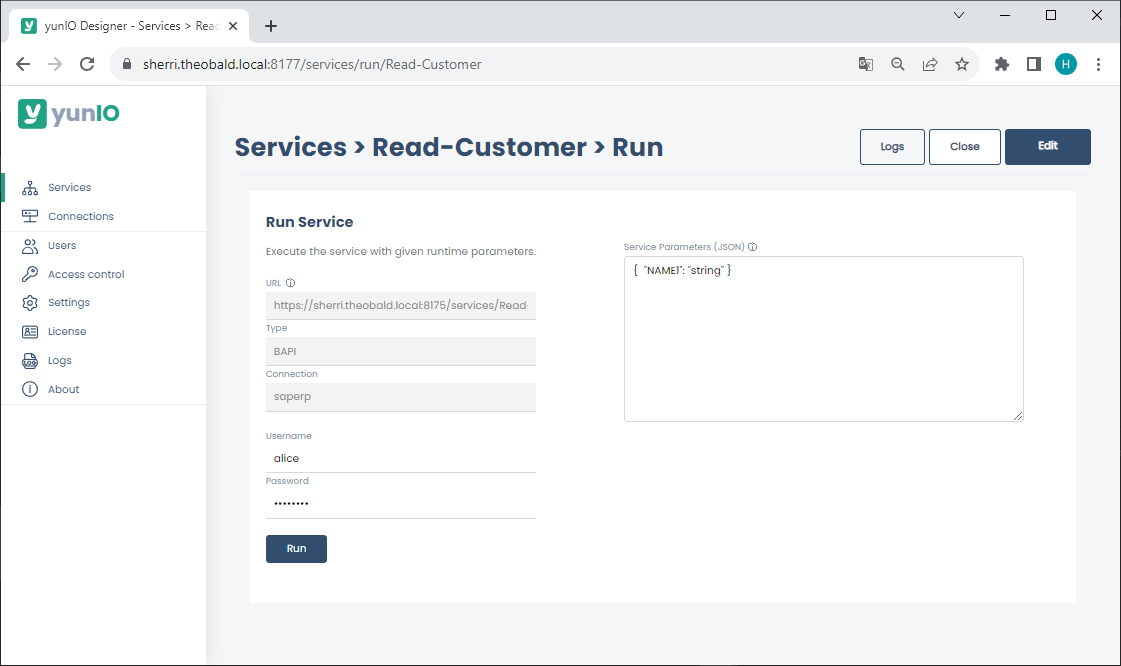
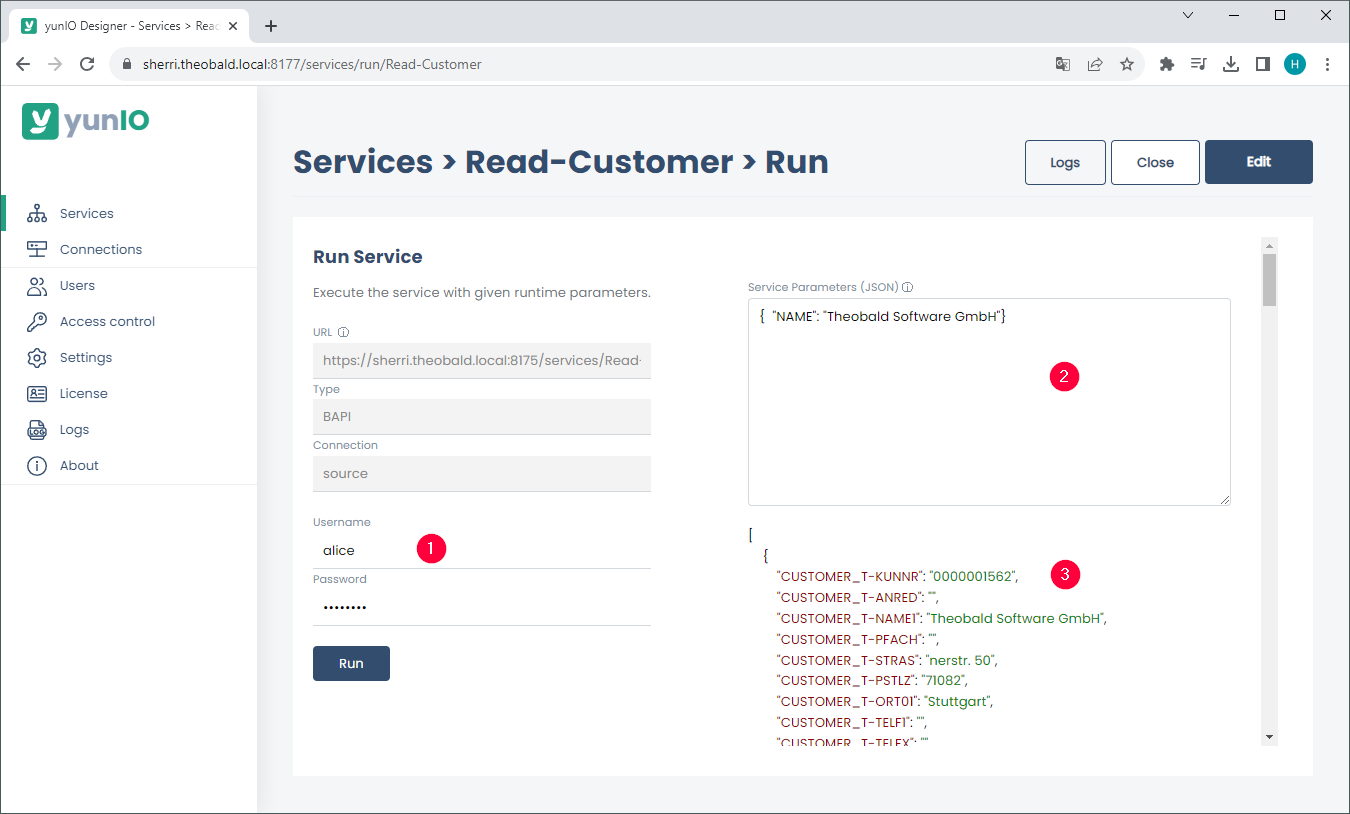
draft

diff --git a/content/_en/yunio/run-services.md b/content/_en/yunio/run-services.md
@@ -10,48 +10,47 @@ weight: 11
 lang: en_EN
 ---
 
-
-- To test a service after creation, trigger the URL of the service endpoint under **Service** (1). The service is then executed in your web browser. <br>
-- To integrate a yunIO web service into a tool that supports Swagger/OpenAPI, copy the code or download the service definition (2).
-
+The following section shows how to test, integrate and pass parameters to services created in yunIO.
 
 ### Testing a Service
 
-Before integrating a yunIO service, it is recommended to test the service in a browser or a REST client, e.g., Swagger Inspector or Postman.
+Before integrating a yunIO service, it is recommended to test the service directly in yunIO or in a REST client, e.g., Swagger Inspector or Postman.
 
-- Click ![copy](/img/content/yunio/icons/copyURL.png) to copy the endpoint of the service to your clipboard.<br>
-The service endpoint is the URL that third-party-tools use to run the service.
-- Click ![copy](/img/content/yunio/icons/run.png) to open the *Run Service* menu and testrun the service in your browser.<br>
-The *Run Service* menu supports passing parameters ... direct access to the log files.
-
-![yunIO-Services](/img/content/yunio/yunio-run-services.png){:class="img-responsive" }
+- Click ![copy](/img/content/yunio/icons/copyURL.png) to copy the URL of the service endpoint to your clipboard. The URL can be used to trigger a service run.
+- Click ![copy](/img/content/yunio/icons/run.png) to open the *Run Service* menu, where you can define parameters and run the service directly in yunIO.<br>
+![yunIO-Services](/img/content/yunio/yunio-run-services1.png){:class="img-responsive" }
 
 #### Run Service Menu
 
 Follow the steps below to testrun a service:
-1. If [Global Access Control](./access-control#global-access-control) and/or [Service Access Control](./access-control#service-access-control) is enabled, enter valid credentials to run the service (1).
+1. If [Global Access Control](./access-control#global-access-control) and/or [Service Access Control](./access-control#service-access-control) is enabled, enter valid credentials (1).
 2. If the service requires input parameters, enter values for the parameters listed under *Service parameters* (2).
-The depicted example uses an input parameter ...
-3. Click **[Run]** (3). The response body of the service is displayed at the bottom of the menu (4).
+The depicted example uses an input parameter *NAME1*.<br>
+![Run-Service](/img/content/yunio/run-service.png){:class="img-responsive" }
+3. Click **[Run]**. The response body of the service is displayed at the bottom of the menu (3).
 4. If the response body returns an error message, click **[Logs]** to open the [logs](./logs) of the service run.
 5. Click **[Close]** to close the *Run Service* menu.
+
+{: .box-tip}
+**Tip:** Click **[Edit]** to edit the service or add parameters.
 
 ### Integrating a Service
 
 Web services created with yunIO can be integrated into all cloud applications that support REST API/Swagger (OpenAPI), e.g. Power Automate, Nintex, etc.
 
-- Click ![copy](/img/content/yunio/icons/copyURL.png) to copy the URL of the service definition to your clipboard.<br>
+- Click ![copy](/img/content/yunio/icons/copyURL.png) to copy the URL of the service definition to your clipboard.
 The service definition URL can be used by third-party-tools to load the meta data of the service.
-- Click ![download](/img/content/yunio/icons/download.png) to download the service definition.<br>
+- Click ![download](/img/content/yunio/icons/download.png) to download the service definition.
 The service definition is saved as a JSON file that defines how to run the service. 
-The JSON file can be imported into third-party tools.
+The JSON file can be imported into third-party tools.<br>
+![yunIO-Services](/img/content/yunio/yunio-run-services-https.png){:class="img-responsive" }
 
-![yunIO-Services](/img/content/yunio/yunio-run-services.png){:class="img-responsive" }
-
-Examples for integrating yunIO services:
+Examples for integrating yunIO services in third-party-tools:
 - [Integrating a yunIO Service with Power Automate](https://kb.theobald-software.com/yunio/integrating-a-yunio-service-with-power-automate)
 - [Integrating a yunIO Service with Nintex](https://kb.theobald-software.com/yunio/integrating-a-yunio-service-with-nintex)
 - [Integrating a yunIO Service with Alteryx](https://kb.theobald-software.com/yunio/integrating-a-yunio-service-with-alteryx)
+
+For more integration scenarios and examples, see [Integration Scenarios](./integration). 
 
 <!---
 - [Running a yunIO Service in Postman](https://kb.theobald-software.com/yunio/running-a-yunio-service-in-postman)
@@ -60,17 +59,19 @@ Examples for integrating yunIO services:
 
 ### Passing Parameters
 
-, see [POST vs GET](#post-vs-get).
-All parameters are listed in the request body of a service.
+How parameters are passed to a yunIO service, depends on the http method that is used to call the service.<br>
+yunIO supports the http methods `POST` and `GET`, see [POST vs GET](#post-vs-get).
 
-Passing an input parameter *NAME1* using the http `POST` method:<br>
+#### POST Method
+Parameters are listed in the request body of a service. <br>
+Edit the request body to assign values to the parameters. The depicted example uses an input parameter *NAME1*:<br>
 ![yunIO-HTTP-POST](/img/content/yunio/http-post.png){:class="img-responsive" }
 
-Passing an input parameter *NAME1* using the http `GET` method:<br>
+#### GET Method
+Parameters are available as query parameters in the service URL. <br>
+Use query parameters to assign values or add the values directly in the service URL. The depicted example uses an input parameter *NAME1*:<br>
 ![yunIO-HTTP-GET](/img/content/yunio/http-get.png){:class="img-responsive" }
 
-{: .box-note}
-**Note:** When using the GET method for a yunIO service, parameters can be passed in the service URL.
 
 ### POST vs GET
 yunIO services support the http methods `POST` and `GET`.
@@ -95,3 +96,4 @@ When using the OpenAPI/Swagger definition, `POST` and `GET` are both available. 
 - [SAP Table or Views](./table-and-views)
 - [Function Module / BAPI](./bapis-and-function-modules)
 - [Transactions](./transactions)
+- [Report](./report)

diff --git a/content/_de/yunio/sap-verbindungen-anlegen.md b/content/_de/yunio/sap-verbindungen-anlegen.md
@@ -11,14 +11,16 @@ lang: de_DE
 old_url: /Xtract-Universal-DE/default.aspx?pageid=sap-verbindungen-anlegen
 ---
 
-### Eine SAP-Verbindung herstellen
 
 {: .box-warning}
 **Warnung!** **Fehlende Berechtigungen**
 Um eine Verbindung zu SAP herzustellen, muss der Zugriff auf allgemeine Berechtigungsobjekte verfügbar sein.
 Stellen Sie sicher, dass der Zugriff auf die erforderlichen Berechtigungsobjekte möglich ist. Weitere Informationen finden Sie im Knowledge-Base-Artikel zu [SAP Zugriffsrechten](https://kb.theobald-software.com/sap/authority-objects-sap-user-rights).
 
-Die Einstellungen für SAP-Verbindungen befinden sich im yunIO Designer unter dem Abschnitt *Connections*.<br>
+
+### Eine SAP-Verbindung herstellen
+
+SAP-Verbindungen befinden sich im yunIO Designer unter dem Abschnitt *Connections*.<br>
 - Um eine neue Verbindung anzulegen, klicken Sie auf **[Add Connection]** (1). <br>
 - Um eine bereits vorhandene Verbindung zu bearbeiten, klicken Sie auf *Edit* (![Edit](/img/content/yunio/edit.png) Icon) (2).
 

diff --git a/content/_en/yunio/sap-connection.md b/content/_en/yunio/sap-connection.md
@@ -12,14 +12,14 @@ old_url: /Xtract-Universal-EN/default.aspx?pageid=sap-connection
 progressstate: 5
 ---
 
-### Creating an SAP connection
-
 {: .box-warning}
 **Warning!** **Missing Authorization**
 To establish a connection to SAP, the access to general authority objects must be available.
 For more information, refer to the knowledge base article [SAP User Rights](https://kb.theobald-software.com/sap/authority-objects-sap-user-rights).
 
-The SAP connection settings are located in the *Connection* section of the yunIO Designer.
+### Creating an SAP Connection
+
+SAP connections are located in the *Connection* section of the yunIO Designer.
 - To add a new SAP connection, click **[Add Connection]** (1).<br>
 - To edit an existing connection, click the edit icon (![Edit](/img/content/yunio/edit.png))of the connection you want to edit (2).
 

diff --git a/content/_de/yunio/erste-schritte.md b/content/_de/yunio/erste-schritte.md
@@ -73,3 +73,4 @@ Für mehr Informationen zum Testen und Ausführen von Services, siehe [Services 
 - [SAP Tabelle oder Ansicht](./table-and-views)
 - [Funktionsbaustein / BAPI](./bapis-and-function-modules)
 - [Transaktionen](./transactions)
+- [Report](./report)

diff --git a/content/_de/yunio/services-ausfuehren.md b/content/_de/yunio/services-ausfuehren.md
@@ -58,3 +58,4 @@ Beispiel für die `GET`-Methode mit einem Eingabeparameter *NAME1*:<br>
 - [SAP Tabelle oder Ansicht](./table-and-views)
 - [Funktionsbaustein / BAPI](./bapis-and-function-modules)
 - [Transaktionen](./transactions)
+- [Report](./report)

diff --git a/content/_en/yunio/getting-started.md b/content/_en/yunio/getting-started.md
@@ -74,3 +74,4 @@ For more information about running services and passing parameters, see [Run Ser
 - [SAP Table or Views](./table-and-views)
 - [Function Module / BAPI](./bapis-and-function-modules)
 - [Transactions](./transactions)
+- [Report](./report)
